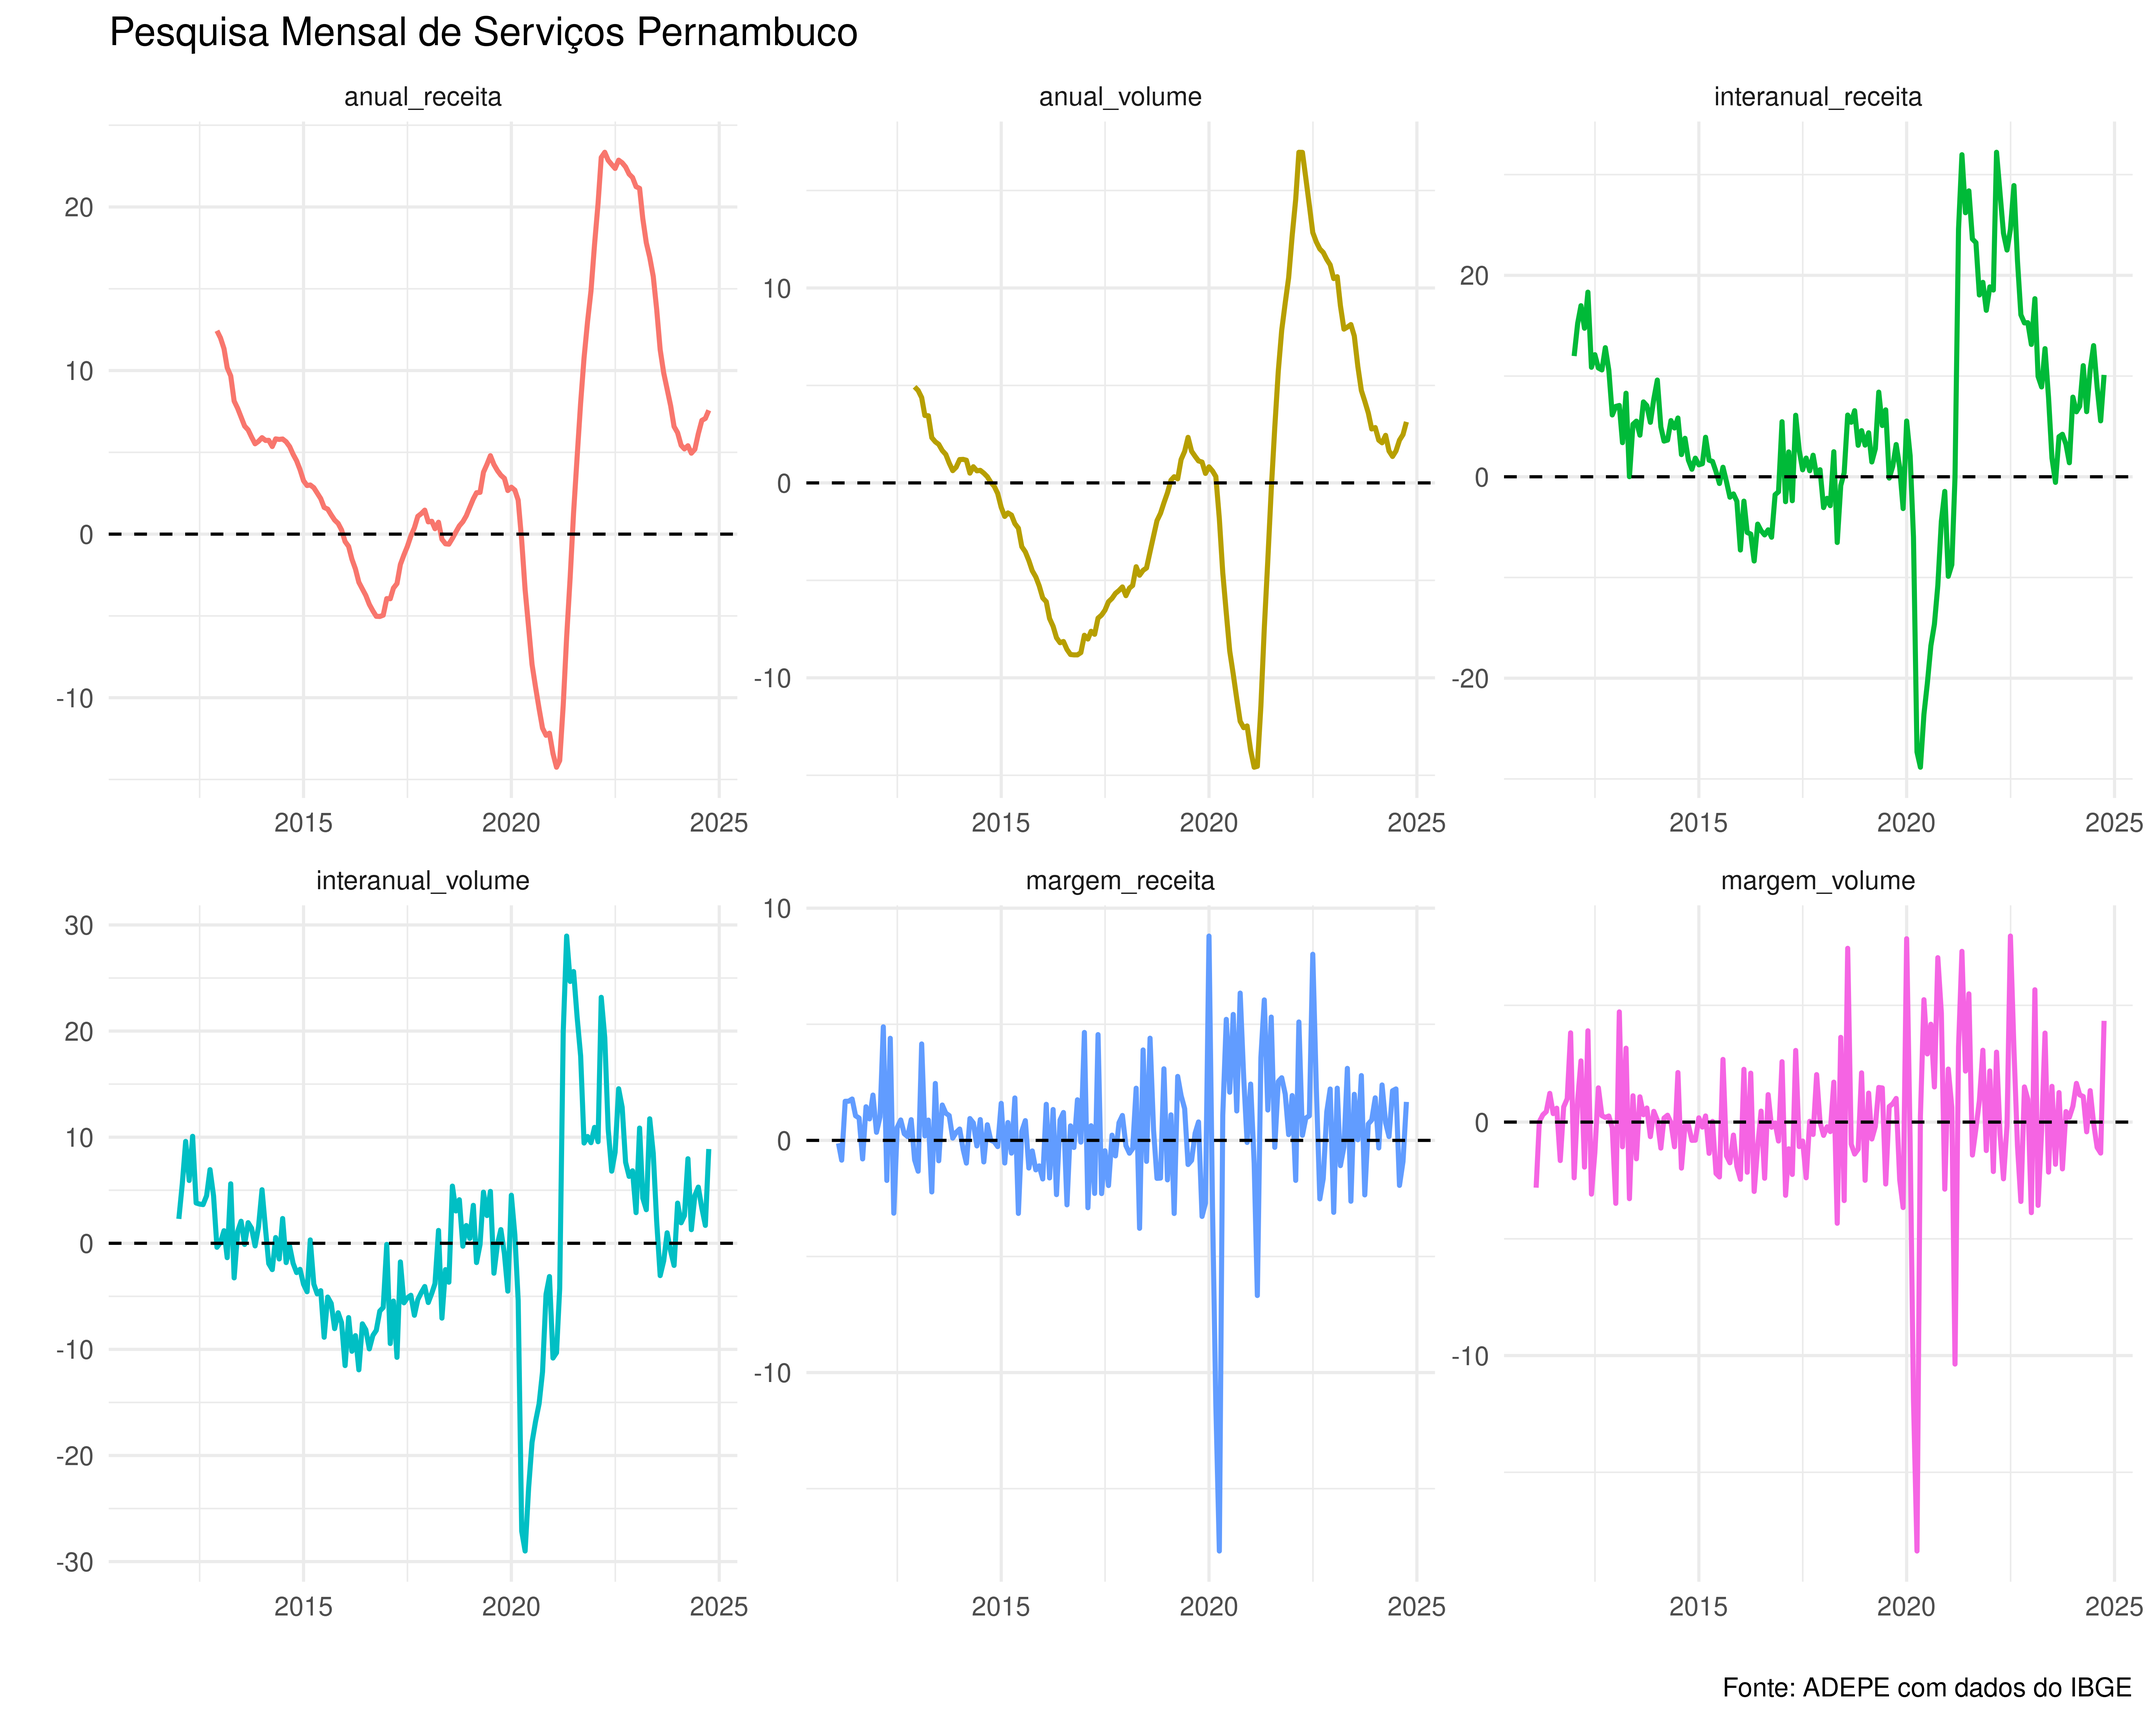
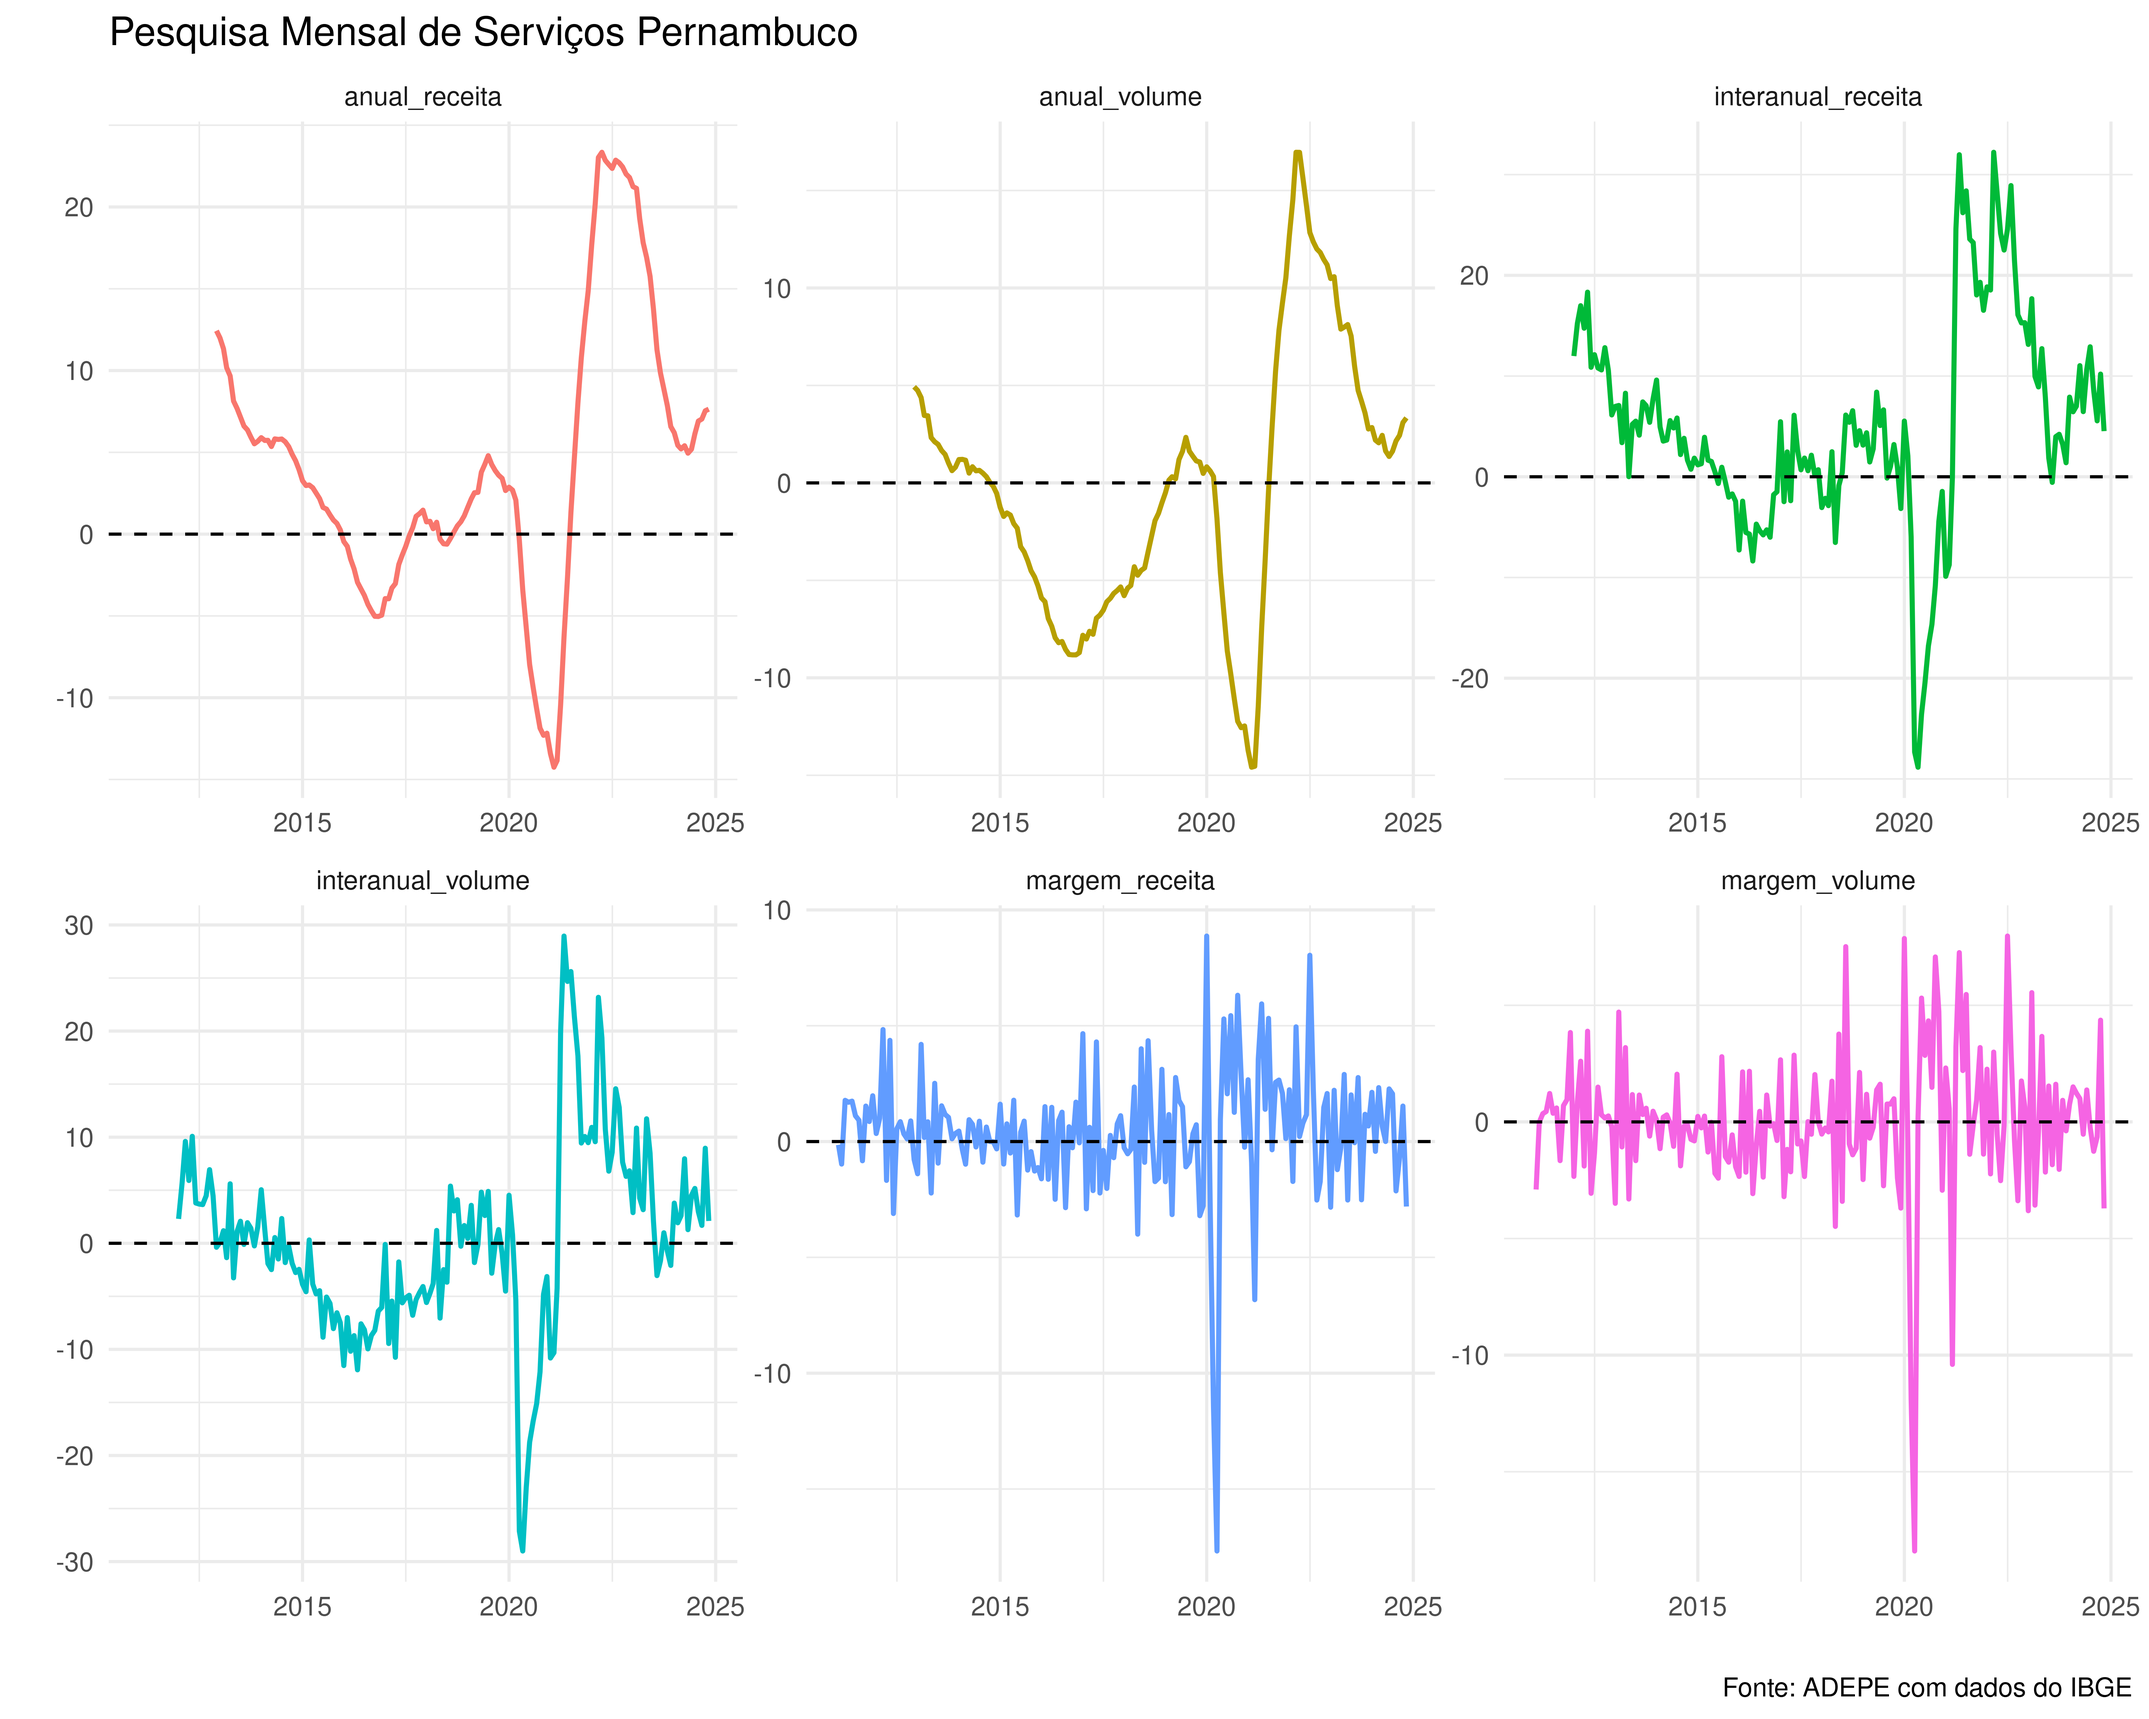
Atualização de relatório automatizada

diff --git a/pms/pms.html b/pms/pms.html
@@ -381,39 +381,39 @@ Núcleo de Dados <br><span style="font-size: 70%;">ADEPE<br><a href="https://git
 </thead>
 <tbody>
 <tr class="odd">
-<td style="text-align: left;">2024-05-01</td>
-<td style="text-align: right;">-1.06</td>
-<td style="text-align: right;">5.06</td>
-<td style="text-align: right;">5.87</td>
-</tr>
-<tr class="even">
 <td style="text-align: left;">2024-06-01</td>
-<td style="text-align: right;">2.52</td>
-<td style="text-align: right;">6.84</td>
-<td style="text-align: right;">5.97</td>
+<td style="text-align: right;">2.54</td>
+<td style="text-align: right;">6.88</td>
+<td style="text-align: right;">6.00</td>
 </tr>
-<tr class="odd">
+<tr class="even">
 <td style="text-align: left;">2024-07-01</td>
-<td style="text-align: right;">1.19</td>
-<td style="text-align: right;">10.48</td>
-<td style="text-align: right;">6.44</td>
-</tr>
-<tr class="even">
-<td style="text-align: left;">2024-08-01</td>
-<td style="text-align: right;">0.08</td>
-<td style="text-align: right;">7.60</td>
-<td style="text-align: right;">6.72</td>
+<td style="text-align: right;">1.18</td>
+<td style="text-align: right;">10.52</td>
+<td style="text-align: right;">6.47</td>
 </tr>
 <tr class="odd">
-<td style="text-align: left;">2024-09-01</td>
-<td style="text-align: right;">0.96</td>
-<td style="text-align: right;">8.22</td>
-<td style="text-align: right;">7.03</td>
+<td style="text-align: left;">2024-08-01</td>
+<td style="text-align: right;">0.09</td>
+<td style="text-align: right;">7.66</td>
+<td style="text-align: right;">6.76</td>
 </tr>
 <tr class="even">
+<td style="text-align: left;">2024-09-01</td>
+<td style="text-align: right;">0.94</td>
+<td style="text-align: right;">8.28</td>
+<td style="text-align: right;">7.07</td>
+</tr>
+<tr class="odd">
 <td style="text-align: left;">2024-10-01</td>
-<td style="text-align: right;">0.76</td>
-<td style="text-align: right;">9.57</td>
+<td style="text-align: right;">0.74</td>
+<td style="text-align: right;">9.68</td>
+<td style="text-align: right;">7.43</td>
+</tr>
+<tr class="even">
+<td style="text-align: left;">2024-11-01</td>
+<td style="text-align: right;">0.11</td>
+<td style="text-align: right;">6.59</td>
 <td style="text-align: right;">7.38</td>
 </tr>
 </tbody>
@@ -436,40 +436,40 @@ Núcleo de Dados <br><span style="font-size: 70%;">ADEPE<br><a href="https://git
 </thead>
 <tbody>
 <tr class="odd">
-<td style="text-align: left;">2024-05-01</td>
-<td style="text-align: right;">-0.26</td>
-<td style="text-align: right;">0.81</td>
-<td style="text-align: right;">2.12</td>
-</tr>
-<tr class="even">
 <td style="text-align: left;">2024-06-01</td>
-<td style="text-align: right;">1.40</td>
-<td style="text-align: right;">1.79</td>
-<td style="text-align: right;">1.92</td>
+<td style="text-align: right;">1.38</td>
+<td style="text-align: right;">1.82</td>
+<td style="text-align: right;">1.94</td>
 </tr>
-<tr class="odd">
+<tr class="even">
 <td style="text-align: left;">2024-07-01</td>
-<td style="text-align: right;">0.34</td>
-<td style="text-align: right;">4.02</td>
-<td style="text-align: right;">1.94</td>
-</tr>
-<tr class="even">
-<td style="text-align: left;">2024-08-01</td>
-<td style="text-align: right;">-0.29</td>
-<td style="text-align: right;">1.81</td>
-<td style="text-align: right;">1.94</td>
+<td style="text-align: right;">0.31</td>
+<td style="text-align: right;">4.06</td>
+<td style="text-align: right;">1.97</td>
 </tr>
 <tr class="odd">
-<td style="text-align: left;">2024-09-01</td>
-<td style="text-align: right;">0.96</td>
-<td style="text-align: right;">3.81</td>
-<td style="text-align: right;">2.25</td>
+<td style="text-align: left;">2024-08-01</td>
+<td style="text-align: right;">-0.27</td>
+<td style="text-align: right;">1.87</td>
+<td style="text-align: right;">1.98</td>
 </tr>
 <tr class="even">
+<td style="text-align: left;">2024-09-01</td>
+<td style="text-align: right;">0.92</td>
+<td style="text-align: right;">3.88</td>
+<td style="text-align: right;">2.29</td>
+</tr>
+<tr class="odd">
 <td style="text-align: left;">2024-10-01</td>
-<td style="text-align: right;">1.14</td>
-<td style="text-align: right;">6.33</td>
-<td style="text-align: right;">2.70</td>
+<td style="text-align: right;">1.41</td>
+<td style="text-align: right;">6.44</td>
+<td style="text-align: right;">2.75</td>
+</tr>
+<tr class="even">
+<td style="text-align: left;">2024-11-01</td>
+<td style="text-align: right;">-0.92</td>
+<td style="text-align: right;">2.94</td>
+<td style="text-align: right;">2.85</td>
 </tr>
 </tbody>
 </table>
@@ -517,40 +517,40 @@ Núcleo de Dados <br><span style="font-size: 70%;">ADEPE<br><a href="https://git
 </thead>
 <tbody>
 <tr class="odd">
-<td style="text-align: left;">2024-05-01</td>
-<td style="text-align: right;">0.17</td>
-<td style="text-align: right;">6.47</td>
-<td style="text-align: right;">4.95</td>
-</tr>
-<tr class="even">
 <td style="text-align: left;">2024-06-01</td>
-<td style="text-align: right;">2.14</td>
+<td style="text-align: right;">2.27</td>
 <td style="text-align: right;">10.66</td>
 <td style="text-align: right;">5.19</td>
 </tr>
-<tr class="odd">
+<tr class="even">
 <td style="text-align: left;">2024-07-01</td>
-<td style="text-align: right;">2.22</td>
-<td style="text-align: right;">13.02</td>
-<td style="text-align: right;">6.14</td>
-</tr>
-<tr class="even">
-<td style="text-align: left;">2024-08-01</td>
-<td style="text-align: right;">-1.94</td>
-<td style="text-align: right;">8.93</td>
-<td style="text-align: right;">6.95</td>
+<td style="text-align: right;">2.06</td>
+<td style="text-align: right;">12.90</td>
+<td style="text-align: right;">6.13</td>
 </tr>
 <tr class="odd">
-<td style="text-align: left;">2024-09-01</td>
-<td style="text-align: right;">-0.91</td>
-<td style="text-align: right;">5.55</td>
-<td style="text-align: right;">7.07</td>
+<td style="text-align: left;">2024-08-01</td>
+<td style="text-align: right;">-2.13</td>
+<td style="text-align: right;">8.61</td>
+<td style="text-align: right;">6.91</td>
 </tr>
 <tr class="even">
+<td style="text-align: left;">2024-09-01</td>
+<td style="text-align: right;">-0.70</td>
+<td style="text-align: right;">5.55</td>
+<td style="text-align: right;">7.04</td>
+</tr>
+<tr class="odd">
 <td style="text-align: left;">2024-10-01</td>
-<td style="text-align: right;">1.66</td>
-<td style="text-align: right;">10.11</td>
-<td style="text-align: right;">7.57</td>
+<td style="text-align: right;">1.53</td>
+<td style="text-align: right;">10.19</td>
+<td style="text-align: right;">7.54</td>
+</tr>
+<tr class="even">
+<td style="text-align: left;">2024-11-01</td>
+<td style="text-align: right;">-2.81</td>
+<td style="text-align: right;">4.53</td>
+<td style="text-align: right;">7.64</td>
 </tr>
 </tbody>
 </table>
@@ -572,40 +572,40 @@ Núcleo de Dados <br><span style="font-size: 70%;">ADEPE<br><a href="https://git
 </thead>
 <tbody>
 <tr class="odd">
-<td style="text-align: left;">2024-05-01</td>
-<td style="text-align: right;">-0.42</td>
-<td style="text-align: right;">1.28</td>
-<td style="text-align: right;">1.64</td>
-</tr>
-<tr class="even">
 <td style="text-align: left;">2024-06-01</td>
-<td style="text-align: right;">1.35</td>
+<td style="text-align: right;">1.37</td>
 <td style="text-align: right;">4.51</td>
 <td style="text-align: right;">1.36</td>
 </tr>
-<tr class="odd">
+<tr class="even">
 <td style="text-align: left;">2024-07-01</td>
-<td style="text-align: right;">-0.05</td>
-<td style="text-align: right;">5.29</td>
-<td style="text-align: right;">1.64</td>
-</tr>
-<tr class="even">
-<td style="text-align: left;">2024-08-01</td>
-<td style="text-align: right;">-1.09</td>
-<td style="text-align: right;">3.32</td>
-<td style="text-align: right;">2.19</td>
+<td style="text-align: right;">-0.23</td>
+<td style="text-align: right;">5.17</td>
+<td style="text-align: right;">1.62</td>
 </tr>
 <tr class="odd">
-<td style="text-align: left;">2024-09-01</td>
-<td style="text-align: right;">-1.33</td>
-<td style="text-align: right;">1.69</td>
-<td style="text-align: right;">2.48</td>
+<td style="text-align: left;">2024-08-01</td>
+<td style="text-align: right;">-1.26</td>
+<td style="text-align: right;">2.97</td>
+<td style="text-align: right;">2.15</td>
 </tr>
 <tr class="even">
+<td style="text-align: left;">2024-09-01</td>
+<td style="text-align: right;">-0.64</td>
+<td style="text-align: right;">1.69</td>
+<td style="text-align: right;">2.44</td>
+</tr>
+<tr class="odd">
 <td style="text-align: left;">2024-10-01</td>
-<td style="text-align: right;">4.34</td>
-<td style="text-align: right;">8.88</td>
-<td style="text-align: right;">3.13</td>
+<td style="text-align: right;">4.36</td>
+<td style="text-align: right;">8.96</td>
+<td style="text-align: right;">3.10</td>
+</tr>
+<tr class="even">
+<td style="text-align: left;">2024-11-01</td>
+<td style="text-align: right;">-3.71</td>
+<td style="text-align: right;">2.10</td>
+<td style="text-align: right;">3.34</td>
 </tr>
 </tbody>
 </table>
